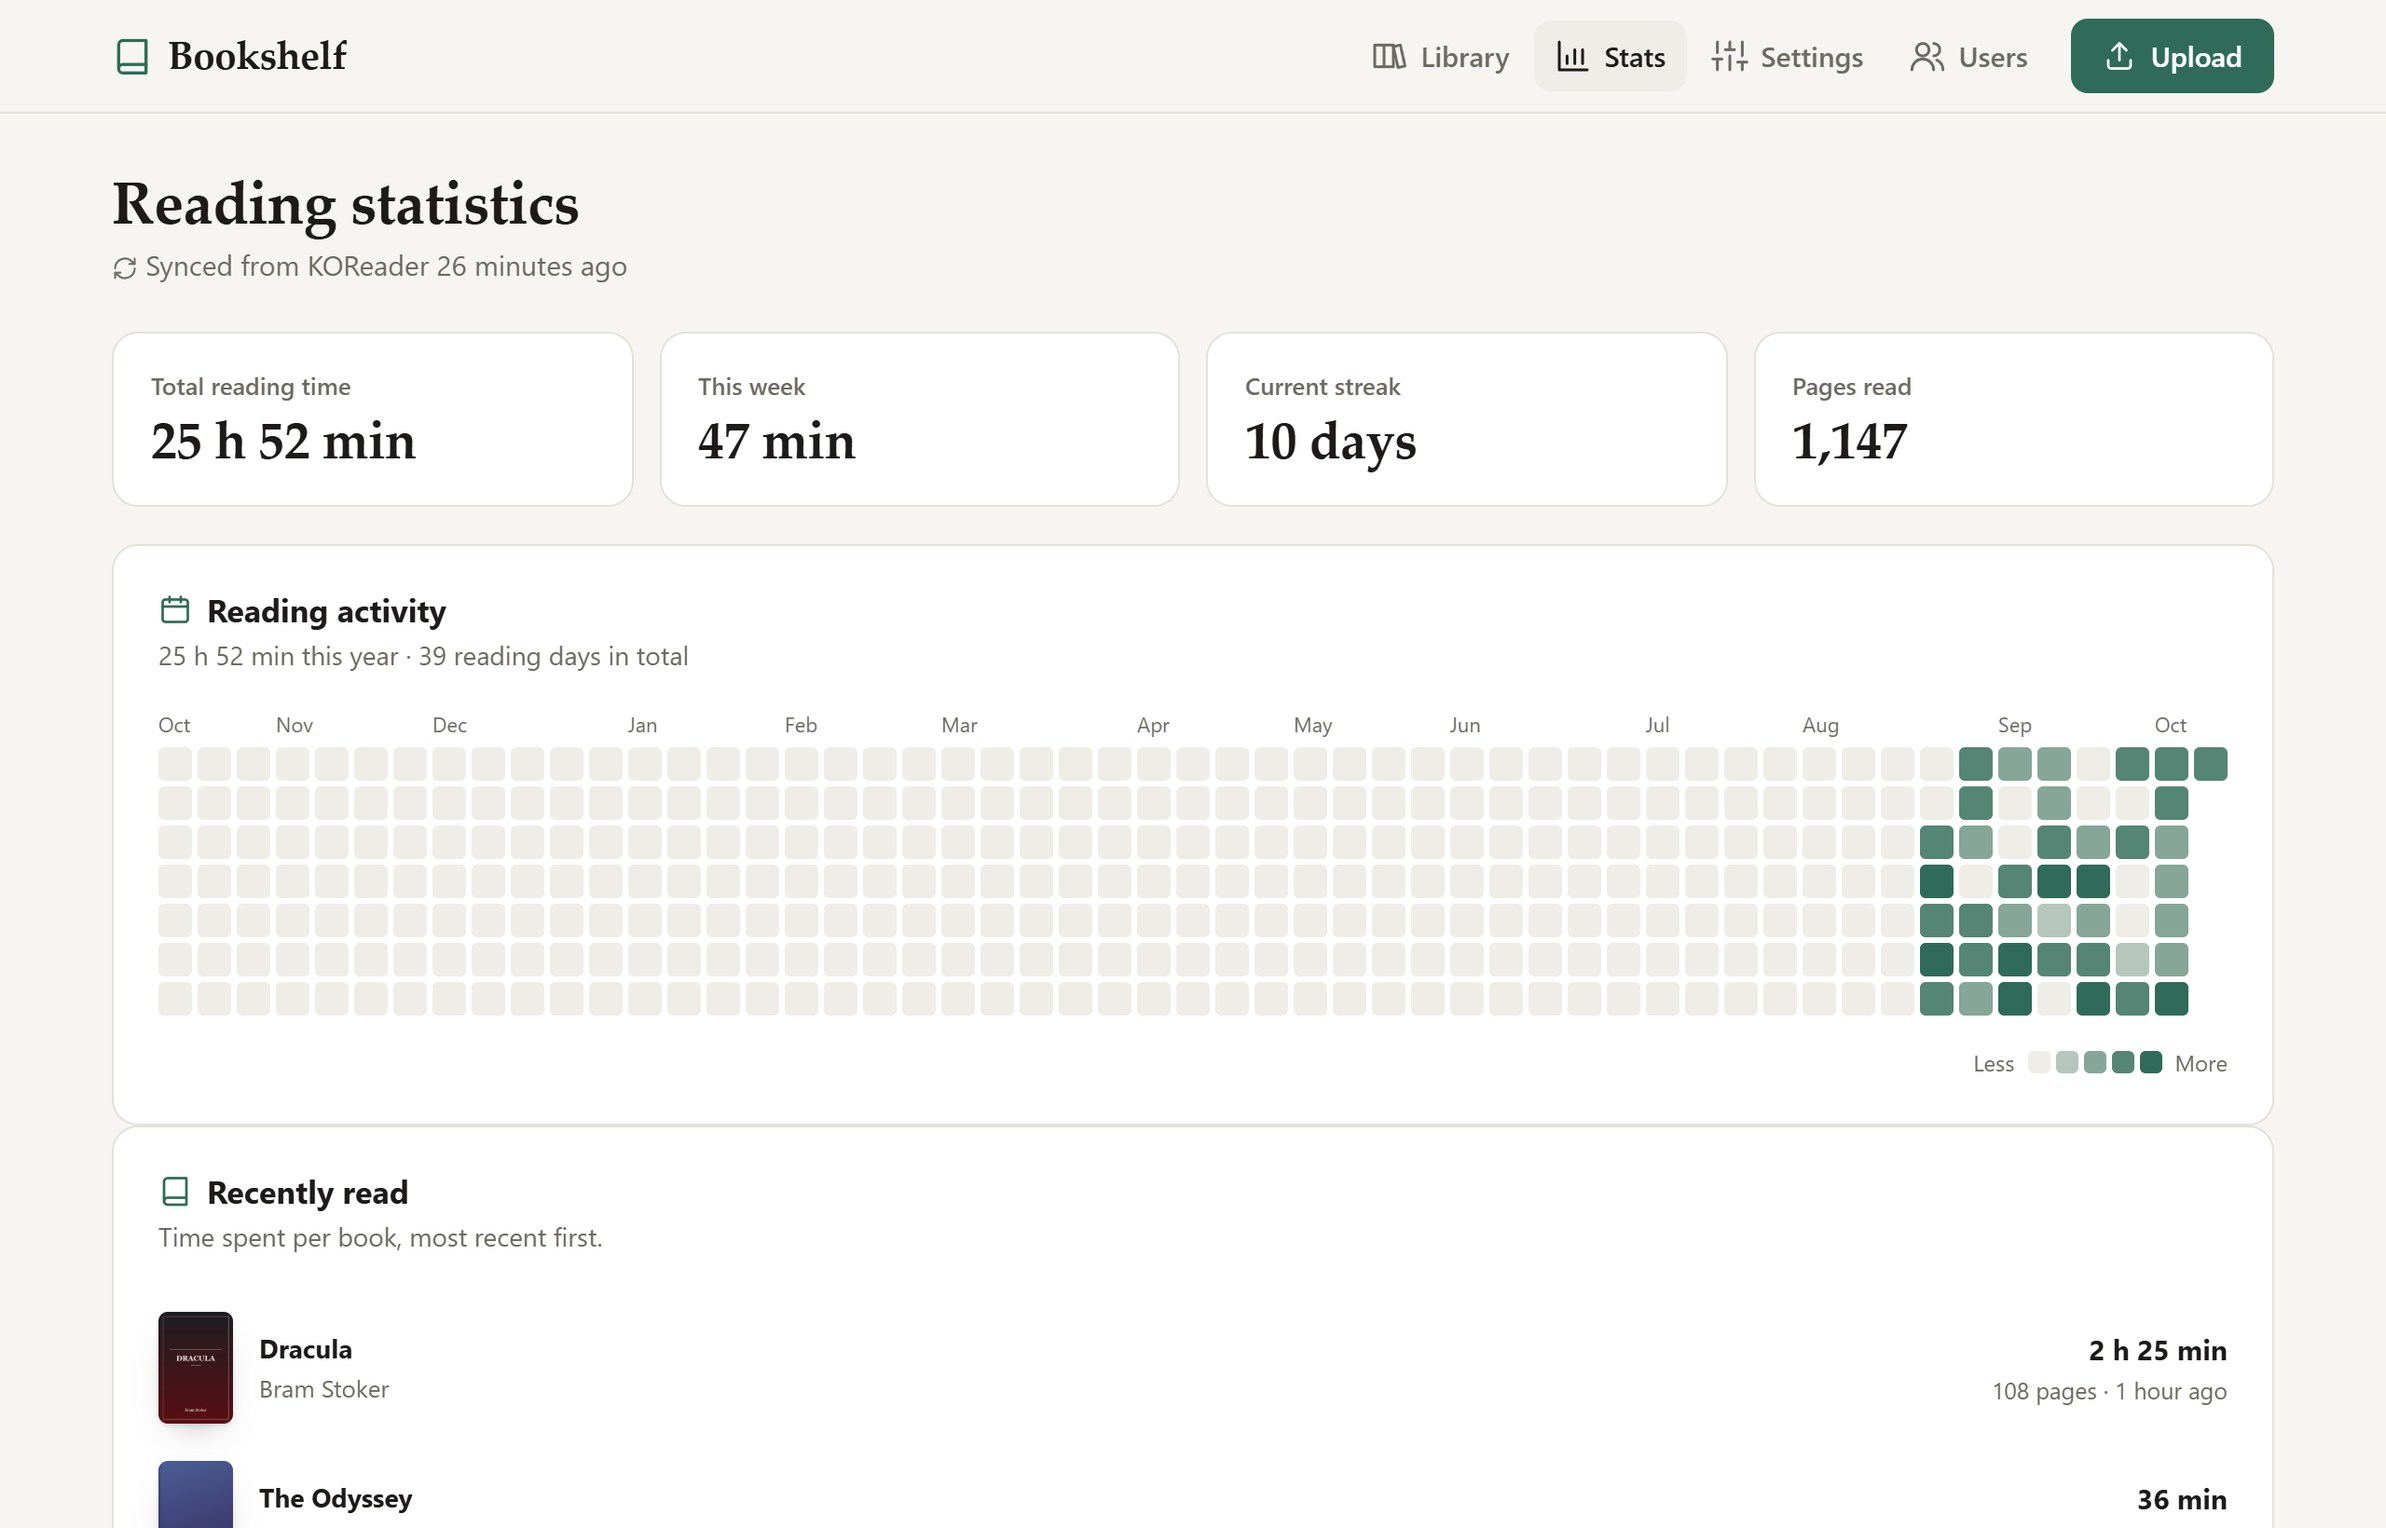
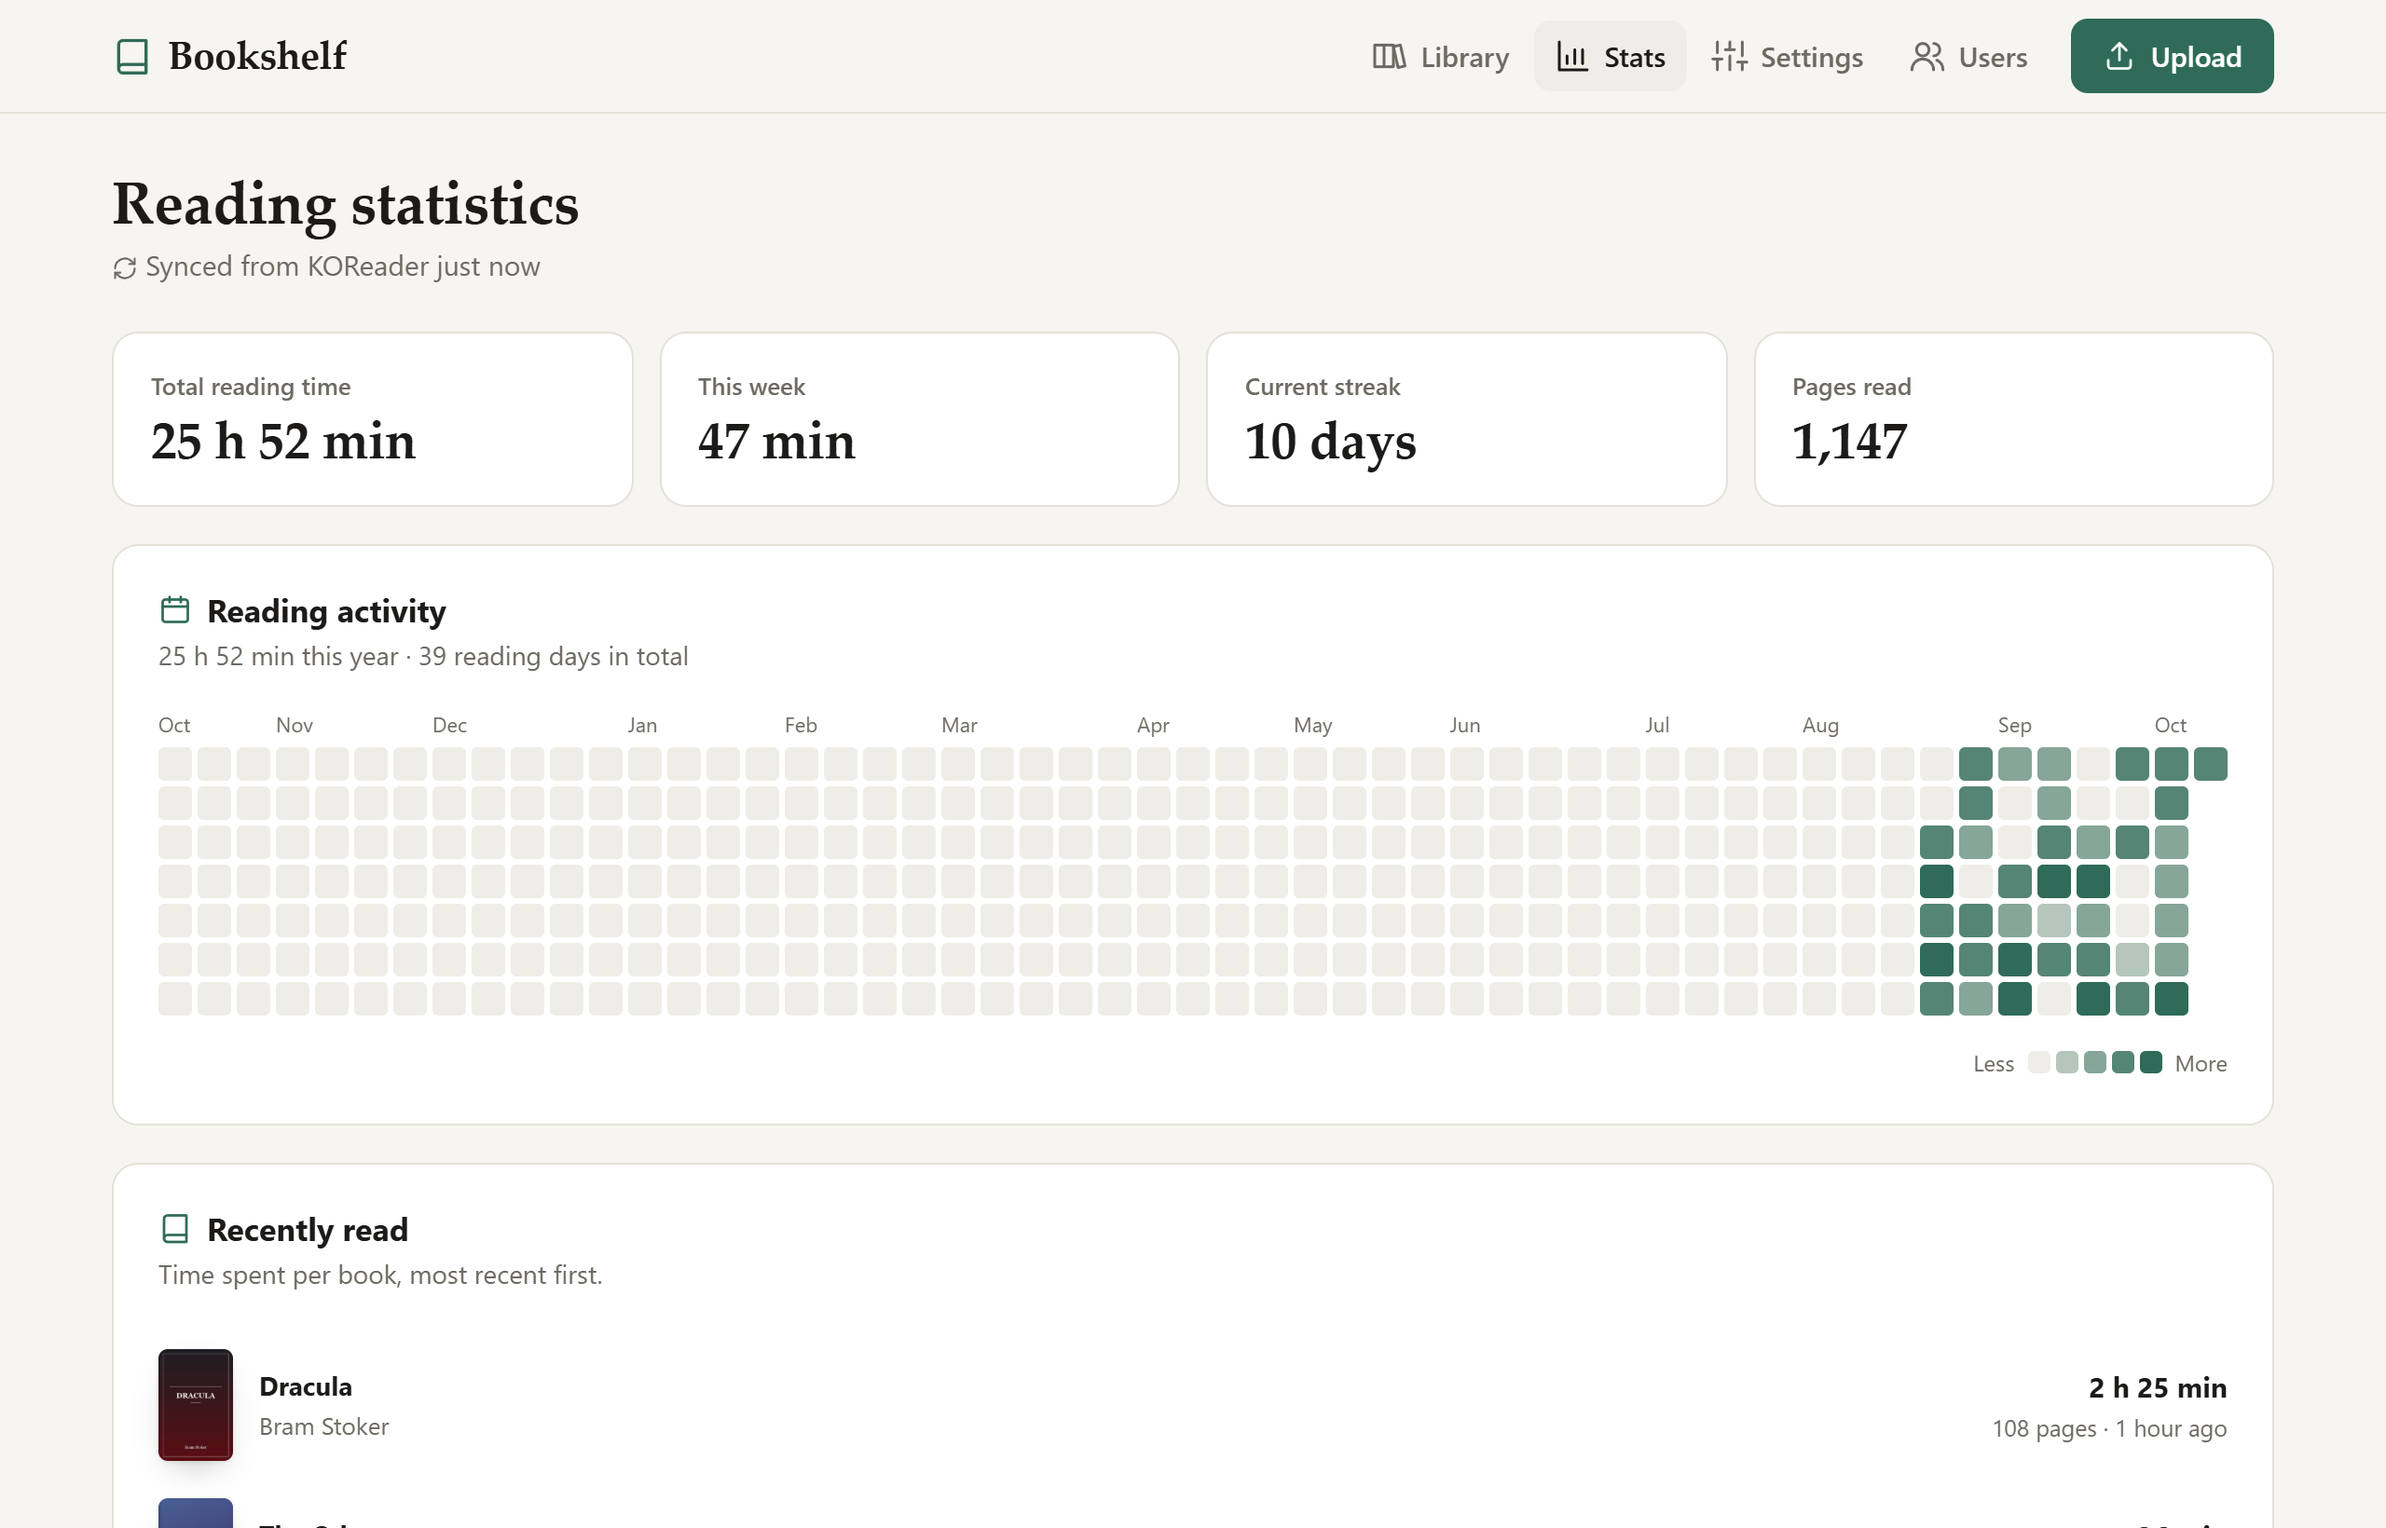
Fix missing spacing between cards on the statistics page
The rule targeted a .stat-page class that does not exist, so "Reading
activity" and "Recently read" touched each other.

diff --git a/bookshelf/static/css/app.css b/bookshelf/static/css/app.css
@@ -521,7 +521,7 @@ textarea.input { height: auto; min-height: 120px; padding: 10px 12px; line-heigh
 .stat-tile { display: grid; gap: 4px; padding: 18px 20px; border: 1px solid var(--border); border-radius: var(--radius); background: var(--surface); }
 .stat-label { color: var(--muted); font-size: 13px; font-weight: 600; }
 .stat-value { font-family: var(--font-serif); font-size: 28px; font-weight: 600; letter-spacing: -0.01em; line-height: 1.15; }
-.stat-tiles + .card, .stat-page .card + .card { margin-top: 20px; }
+.stat-tiles + .card, .stat-tiles ~ .card + .card { margin-top: 20px; }
 
 .heatmap { overflow-x: auto; padding-bottom: 6px; scrollbar-width: thin; scrollbar-color: var(--border) transparent; }
 /* Columns grow to fill the card; below ~11px per week the calendar scrolls instead. */
